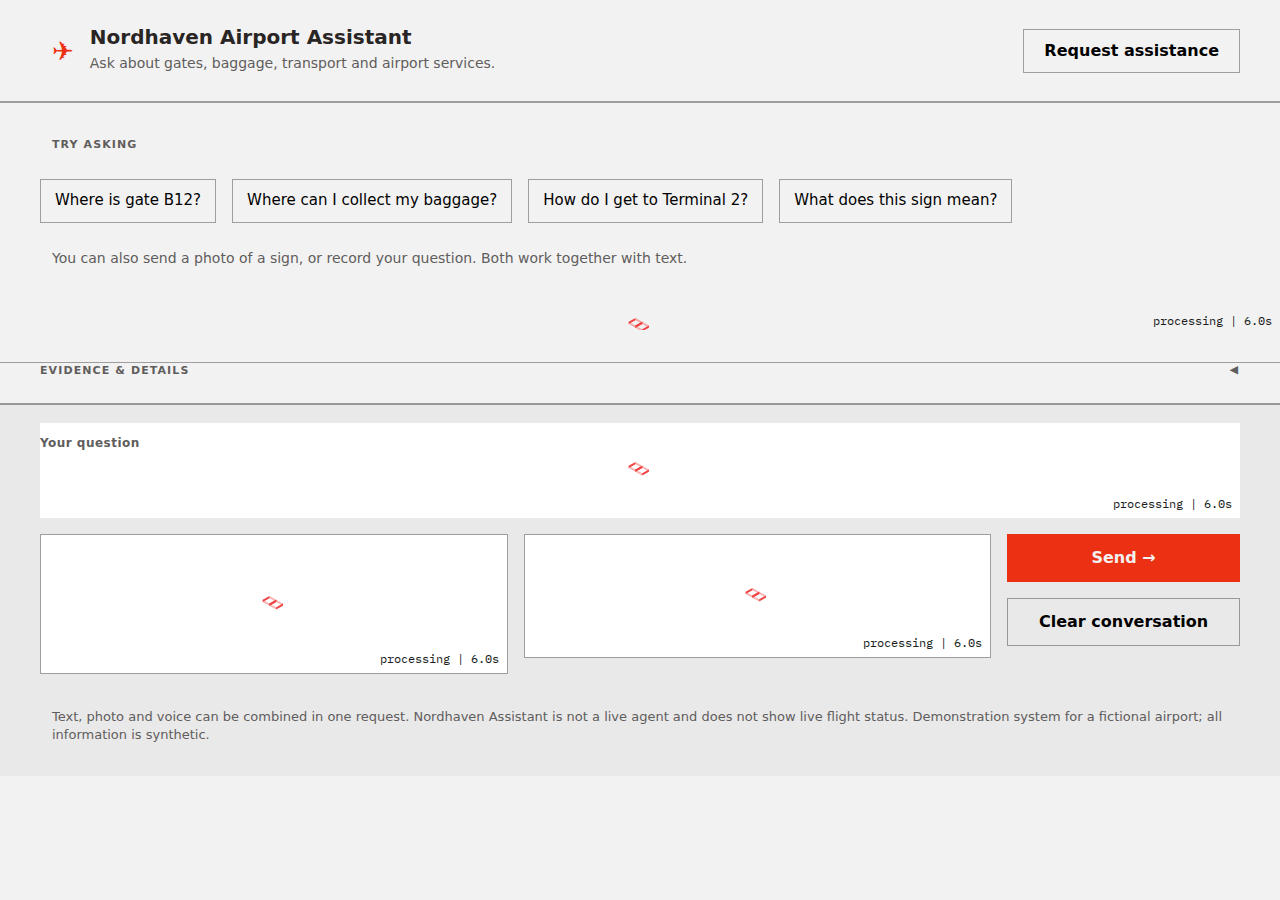
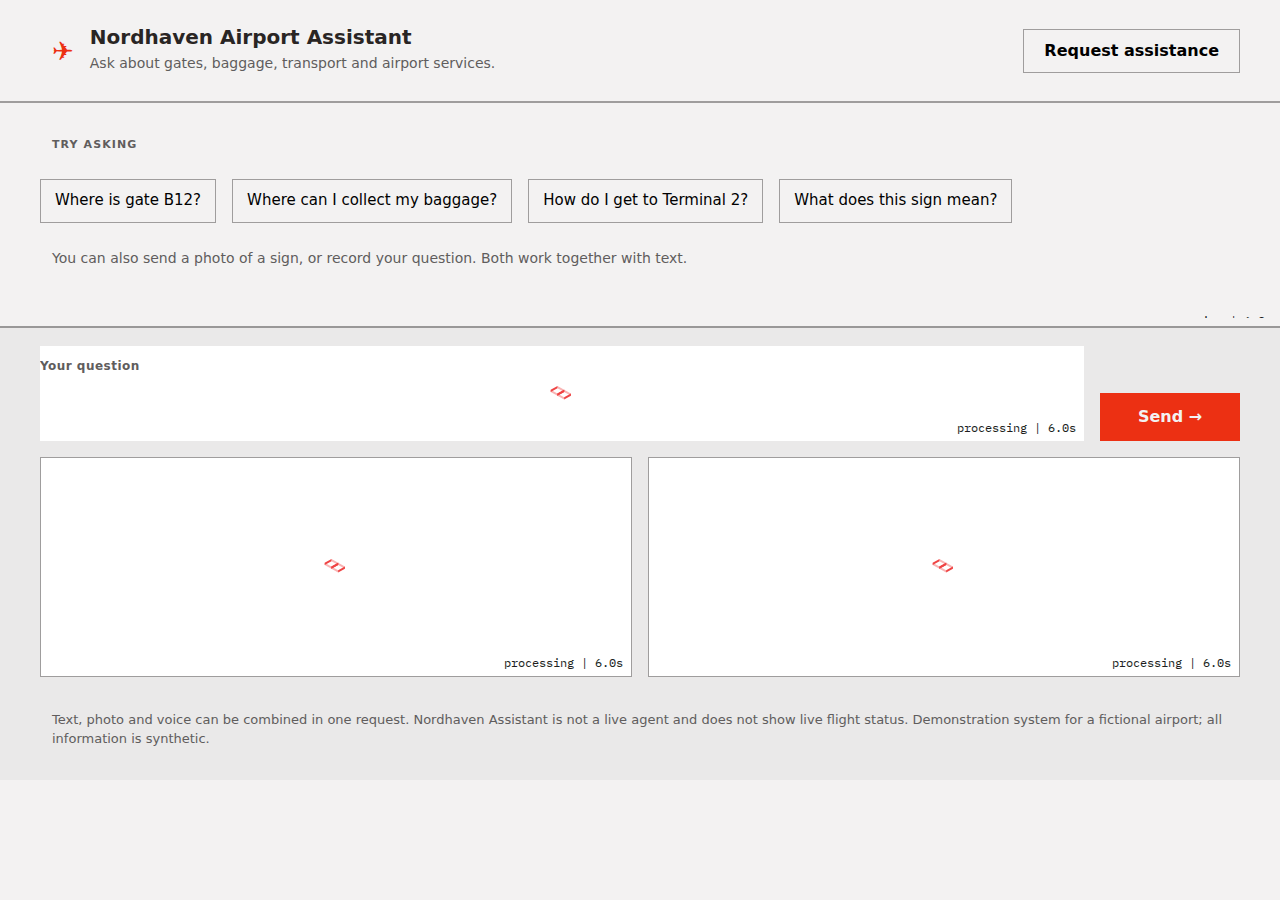
Interface: session-history bar states there is no memory, evidence panel scoped to the last answer, composer alignment, fact-chip rule tested
Fact chips may only restate what the answer body already says for the
selected record (terminal and zone, hours, step-free); a test checks this
for every knowledge-base record. Quick replies and the evidence panel are
hidden when empty; Send sits beside the question field; Clear conversation
moves to the history bar.

diff --git a/app/app.py b/app/app.py
@@ -53,7 +53,8 @@ SUBTITLE = "Ask about gates, baggage, transport and airport services."
 SCOPE_NOTE = ("Text, photo and voice can be combined in one request. Nordhaven Assistant is not a live agent "
               "and does not show live flight status. Demonstration system for a fictional airport; "
               "all information is synthetic.")
-HISTORY_NOTE = "Session history is shown for reference. Each request is processed independently."
+HISTORY_NOTE = ("Shown for reference only. The assistant keeps no memory of earlier turns: each request is "
+                "processed on its own, from the text, photo and voice you send with it.")
 EXAMPLES = ["Where is gate B12?", "Where can I collect my baggage?", "How do I get to Terminal 2?",
             "What does this sign mean?"]
 QUICK_REPLY_SLOTS = 3
@@ -152,8 +153,11 @@ def status_chip(key: str) -> str:
 
 
 def fact_chips(outcome: Outcome, gaz) -> list[str]:
-    """Short facts next to the status: what the answer was based on, and the
-    place's terminal and hours when one record was matched."""
+    """Short facts next to the status. Rule: a chip may restate, in a shorter
+    form, only what the answer text already says about the selected record
+    (terminal and zone, opening hours, step-free access, all printed by
+    src.responses._record_text); it never adds a claim the answer does not
+    make. The test suite checks this against every knowledge-base record."""
     chips = [f'<span class="chip">From {html.escape(ROUTE_LABELS.get(outcome.route, outcome.route))}</span>']
     record = gaz.records.get(outcome.matched_record_id) if outcome.decision == "answer" else None
     if record:
@@ -322,9 +326,16 @@ body, .gradio-container, .gradio-container * { font-family: "Archivo", system-ui
 #header .brand { display: flex; align-items: center; gap: 16px; }
 #assist-toggle { min-height: 44px; flex: 0 0 auto !important; padding: 0 20px; background: transparent; border: 1px solid var(--rule); }
 #conversation-wrap { padding: 0 !important; }
-#conversation { padding: 8px var(--gutter) 16px; }
-#conversation .turn { display: flex; flex-direction: column; gap: 10px; padding: 22px 0; border-top: 1px solid var(--rule); }
-#conversation .turn:first-child { border-top: 0; }
+#conversation { padding: 4px var(--gutter) 8px; }
+#history-bar { padding: 16px var(--gutter) 0; align-items: center; justify-content: space-between; }
+#history-bar .block { padding: 0 !important; }
+#history-note { font-size: 13px; color: var(--muted); margin-top: 2px; }
+#conversation .turn { display: flex; flex-direction: column; gap: 8px; padding: 16px 0; }
+#conversation .turn--user { padding: 12px 16px; margin-top: 16px; background: var(--surface);
+                            border-left: 2px solid var(--ink); }
+#conversation .turn--user:first-child { margin-top: 0; }
+#conversation .turn--assistant { padding: 16px 0 20px; margin-top: 8px; border-bottom: 1px solid var(--rule); }
+#conversation .turn--assistant:last-child { border-bottom: 0; }
 .role, .subrole, #examples-label { font-weight: 800; font-size: 11px; letter-spacing: .1em; text-transform: uppercase; color: var(--muted); }
 .turn--assistant .role { color: var(--accent-deep); }
 .answer, .answer p { font-size: 16px; line-height: 1.55; max-width: 68ch; margin: 0; }
@@ -346,23 +357,29 @@ body, .gradio-container, .gradio-container * { font-family: "Archivo", system-ui
 #examples .row { justify-content: flex-start; }
 #examples .ex { min-height: 44px; flex: 0 0 auto !important; padding: 0 14px; background: var(--bg); border: 1px solid var(--rule); font-weight: 400; font-size: 15px; }
 #examples-hint { font-size: 14px; color: var(--muted); }
-#quick { padding: 0 var(--gutter) 12px; }
+#quick { padding: 0 var(--gutter) 16px; }
 #quick .row { justify-content: flex-start; }
 #quick button { min-height: 44px; flex: 0 0 auto !important; padding: 0 20px; border: 1px solid var(--rule); background: var(--bg); font-weight: 600; }
-#notice { padding: 0 var(--gutter); color: var(--accent-deep); font-size: 14px; }
-#evidence, #assistance { padding: 0 var(--gutter) 16px !important; border-top: 1px solid var(--rule) !important; }
-#assistance { padding-top: 16px !important; }
+#notice { padding: 8px var(--gutter); color: var(--accent-deep); font-size: 15px; }
+#evidence { margin: 0 var(--gutter) 16px !important; width: auto !important; background: var(--surface) !important;
+            border: 1px solid var(--rule) !important; padding: 0 16px 8px !important; }
+#evidence .prose { font-size: 14px; }
+#assistance { padding: 16px var(--gutter) 16px !important; border-top: 1px solid var(--rule) !important; }
 #assistance textarea { background: var(--bg); border: 1px solid var(--rule) !important; font-size: 16px; }
-#assistance button { flex: 0 0 auto !important; align-self: flex-start; min-height: 48px; padding: 0 20px;
+#assistance button { flex: 0 0 auto !important; width: auto !important; align-self: flex-start; min-height: 48px; padding: 0 20px;
                      background: var(--accent); color: var(--bg); font-weight: 800; border: 0; }
 #evidence .label-wrap span, #assistance .label-wrap span { font-weight: 800; font-size: 11px; letter-spacing: .1em; text-transform: uppercase; color: var(--muted); }
 #composer { border-top: 2px solid var(--rule); background: var(--surface); padding: 18px var(--gutter) 22px; margin-top: 8px; }
 #composer textarea, #transcript textarea { min-height: 48px; font-size: 16px; background: var(--bg);
                     border: 1px solid var(--rule) !important; padding: 12px; }
 #composer label span, #transcript label span { font-size: 12px; font-weight: 600; letter-spacing: .04em; color: var(--muted); }
-#send { background: var(--accent); color: var(--bg); font-weight: 800; border: 0; min-height: 48px; }
+#send { background: var(--accent); color: var(--bg); font-weight: 800; border: 0; min-height: 48px;
+        flex: 0 0 auto !important; padding: 0 24px; align-self: flex-end; }
 #send:hover { background: #dd2b0f; }
-#clear { background: transparent; border: 1px solid var(--rule); min-height: 48px; }
+#clear { background: transparent; border: 1px solid var(--rule); min-height: 40px; flex: 0 0 auto !important;
+         padding: 0 16px; font-weight: 600; font-size: 14px; }
+#attachments { align-items: stretch; }
+#attachments > .block { min-height: 220px; }
 #question, #transcript, #assistance .block, #examples .block, #notice { padding-left: 0 !important; padding-right: 0 !important; }
 #scope { font-size: 13px; color: var(--muted); margin-top: 8px; }
 #photo, #voice { background: var(--bg) !important; border: 1px solid var(--rule) !important; }
@@ -371,7 +388,8 @@ body, .gradio-container, .gradio-container * { font-family: "Archivo", system-ui
 @media (max-width: 760px) {
   .gradio-container { --gutter: 18px; }
   #header { flex-direction: column; align-items: flex-start; }
-  #composer .row, #quick .row, #examples .row { flex-direction: column; align-items: stretch; }
+  #composer .row, #quick .row, #examples .row, #history-bar { flex-direction: column; align-items: stretch; }
+  #send { align-self: stretch; }
 }
 """
 
@@ -394,15 +412,19 @@ def build_ui() -> gr.Blocks:
                 gr.HTML('<div id="examples-hint">You can also send a photo of a sign, or record your question. '
                         'Both work together with text.</div>')
 
+            with gr.Row(elem_id="history-bar", visible=False) as history_bar:
+                gr.HTML(f'<div class="role">Session history</div><div id="history-note">{HISTORY_NOTE}</div>')
+                clear = gr.Button("Clear conversation", elem_id="clear", scale=0, min_width=180)
             conversation = gr.HTML(conversation_html([]), elem_id="conversation-wrap")
-            notice = gr.HTML("", elem_id="notice")
-            with gr.Row(elem_id="quick"):
+            notice = gr.HTML("", elem_id="notice", visible=False)
+            with gr.Row(elem_id="quick", visible=False) as quick_row:
                 quick_buttons = [gr.Button("", visible=False) for _ in range(QUICK_REPLY_SLOTS)]
             transcript = gr.Textbox(label="You said — edit if this is wrong, then press Enter to ask again",
                                     visible=False, lines=1, elem_id="transcript")
-
-            with gr.Accordion("Evidence & details", open=False, elem_id="evidence"):
+            with gr.Accordion("Evidence & details for the last answer", open=False, elem_id="evidence",
+                              visible=False) as evidence_panel:
                 evidence = gr.Markdown(value=HISTORY_NOTE)
+
             with gr.Column(visible=False, elem_id="assistance") as assistance:
                 gr.HTML('<div class="role">Assistance request</div>')
                 gr.Markdown("If the answer did not help, leave a short note. A reference number is recorded "
@@ -413,31 +435,33 @@ def build_ui() -> gr.Blocks:
                 ticket_out = gr.Markdown(value="")
 
             with gr.Column(elem_id="composer"):
-                text_in = gr.Textbox(label="Your question", placeholder="Ask about your journey…", lines=1,
-                                     elem_id="question")
                 with gr.Row():
+                    text_in = gr.Textbox(label="Your question", placeholder="Ask about your journey…", lines=1,
+                                         elem_id="question", scale=6)
+                    send = gr.Button("Send →", elem_id="send", scale=0, min_width=140)
+                with gr.Row(elem_id="attachments"):
                     # image_mode=None keeps the file as uploaded: the default RGB conversion
                     # turns a transparent pictogram into a black square before it reaches us
                     image_in = gr.Image(label="Photo of a sign (optional)", type="filepath", sources=["upload"],
-                                        image_mode=None, height=140, elem_id="photo", scale=2)
+                                        image_mode=None, height=180, elem_id="photo")
                     audio_in = gr.Audio(label="Ask by voice (optional)", type="filepath",
-                                        sources=["microphone", "upload"], elem_id="voice", scale=2)
-                    with gr.Column(scale=1, min_width=160):
-                        send = gr.Button("Send →", elem_id="send")
-                        clear = gr.Button("Clear conversation", elem_id="clear")
+                                        sources=["microphone", "upload"], elem_id="voice")
                 gr.HTML(f'<div id="scope">{SCOPE_NOTE}</div>')
 
-        turn_outputs = [conversation, examples, notice, *quick_buttons, transcript, evidence, session,
-                        text_in, image_in, audio_in]
+        turn_outputs = [conversation, examples, history_bar, notice, quick_row, *quick_buttons, transcript,
+                        evidence_panel, evidence, session, text_in, image_in, audio_in]
 
         def to_outputs(result: dict) -> list:
             quick = result["quick"]
             buttons = [gr.update(value=q["label"], visible=True) for q in quick]
             buttons += [gr.update(value="", visible=False)] * (QUICK_REPLY_SLOTS - len(buttons))
             heard = result["transcript"]
-            return [result["conversation"], gr.update(visible=not result["session"].get("history")),
-                    result["notice"], *buttons, gr.update(value=heard, visible=bool(heard)),
-                    result["evidence"] or HISTORY_NOTE, result["session"], "", None, None]
+            has_history = bool(result["session"].get("history"))
+            return [result["conversation"], gr.update(visible=not has_history), gr.update(visible=has_history),
+                    gr.update(value=result["notice"], visible=bool(result["notice"])),
+                    gr.update(visible=bool(quick)), *buttons, gr.update(value=heard, visible=bool(heard)),
+                    gr.update(visible=bool(result["evidence"])), result["evidence"] or HISTORY_NOTE,
+                    result["session"], "", None, None]
 
         def on_send(text, image_path, audio_path, session):
             return to_outputs(run_turn(text, image_path, audio_path, session))

diff --git a/tests/test_app.py b/tests/test_app.py
@@ -57,6 +57,27 @@ def test_quick_replies_only_for_terminal_clarify_and_conflict():
     assert ui.quick_replies(Outcome(route="text_only", decision="answer"), Gaz(), "x", None) == []
 
 
+def test_fact_chips_only_restate_what_the_answer_text_says():
+    """A chip may shorten a fact from the selected record, never add one."""
+    from src.entities import load_gazetteers
+    from src.responses import _record_text
+    from configs.settings import SETTINGS
+    import re
+    gaz = load_gazetteers(SETTINGS.kb_path, SETTINGS.vocabulary_path)
+    for rid, record in gaz.records.items():
+        answer = " ".join(_record_text(record, gaz))
+        outcome = Outcome(route="text_only", decision="answer", matched_record_id=rid)
+        for chip in ui.fact_chips(outcome, gaz)[1:]:           # [0] names the evidence route, not a record fact
+            words = re.sub(r"<[^>]+>", "", chip)
+            if words.startswith("Open "):
+                assert words[5:].replace(" – ", "-") in answer, (rid, words)
+            elif words == "Step-free access":
+                assert "step-free access" in answer, rid
+            else:
+                for part in words.split(" · "):
+                    assert part in answer, (rid, part)
+
+
 @pytest.fixture(scope="module")
 def models_ready():
     try:

diff --git a/docs/checkpoints/05_0_ui_presentation.md b/docs/checkpoints/05_0_ui_presentation.md
@@ -28,12 +28,13 @@ therefore still describes what this interface shows.
 
 ## What the page now does
 
-Session history. The page keeps earlier passenger/assistant turns on screen.
-This is a display list in Gradio session state; the router is called with
-the current text, photo and audio only, and nothing from earlier turns is
-appended to a request. "Clear conversation" empties the list. A note in the
-evidence panel says so ("Session history is shown for reference. Each
-request is processed independently."). A message that looks like a
+Session history. The page keeps earlier passenger/assistant turns on screen
+under a "Session history" bar. This is a display list in Gradio session
+state, not memory: the router is called with the current text, photo and
+audio only, and nothing from earlier turns is appended to a request. The
+bar and the evidence panel both say so ("Shown for reference only. The
+assistant keeps no memory of earlier turns: each request is processed on
+its own…"), and "Clear conversation" empties the list. A message that looks like a
 follow-up ("What about Terminal 2?") is processed on its own and will
 usually be a clarification or an abstention, which is the honest outcome
 for a system without dialogue state.
@@ -47,8 +48,13 @@ used only on "no reliable match" and always together with the words.
 
 Fact chips. Next to the status: which evidence the answer came from (the
 existing `ROUTE_LABELS`), and for a matched record its terminal and zone,
-stated opening hours and step-free flag, read from the knowledge-base
-record. These repeat facts already in the answer text in a scannable form.
+stated opening hours and step-free flag. Rule adopted for these: a chip may
+reformat information already stated in the answer text for the selected
+record, and must not introduce a claim that is absent from or inconsistent
+with the outcome. The three record chips are drawn from exactly the fields
+`src.responses._record_text` always prints (place line, hours line,
+accessibility line), and `test_fact_chips_only_restate_what_the_answer_text_says`
+checks every knowledge-base record against the rendered answer body.
 
 Quick replies. Up to three buttons appear after a clarification or a
 conflict. Each one is a pre-filled new request sent through the same
@@ -101,8 +107,9 @@ returns a dict). New checks: every status has words as well as a symbol;
 passenger text is HTML-escaped; quick replies are produced only for terminal
 clarifications, short candidate lists and text+photo conflicts; a second
 turn keeps the first on screen while the turn counter and history grow;
-the independence note is present in the evidence text. Full suite: 215
-passed (was 211; four new interface tests).
+the independence note is present in the evidence text; fact chips restate
+only what the answer body says for every record. Full suite: 216 passed
+(was 211; five new interface tests).
 
 ## Not done, deliberately
 
